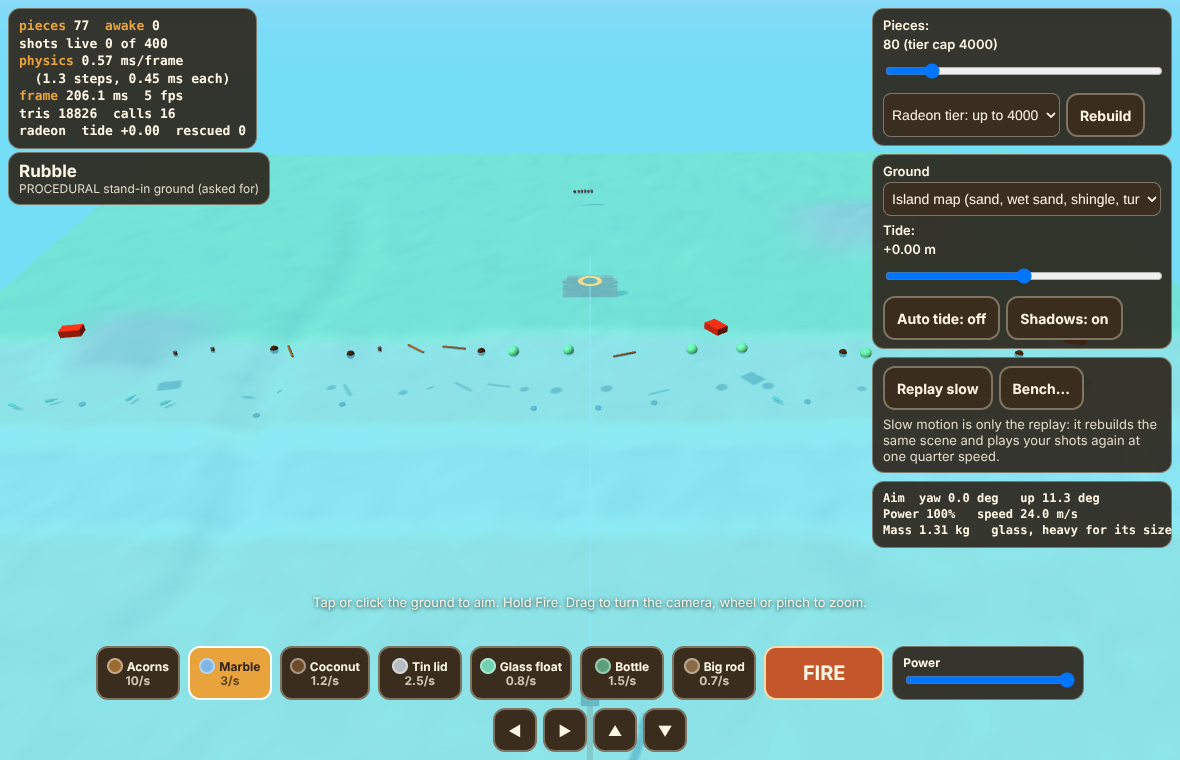
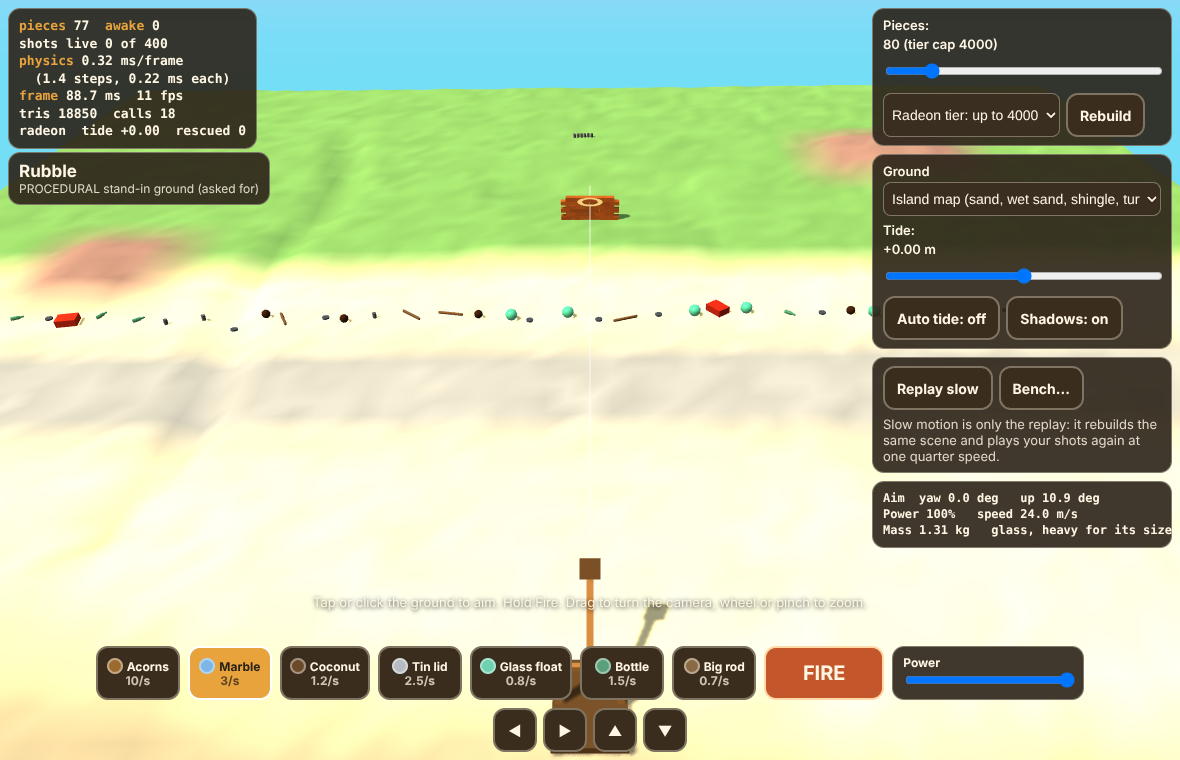
Rubble: procedural ground above sea level, picture captions
Claude-Session: https://claude.ai/code/session_0171oc5wTsPoimaja7RRfUcs

diff --git a/games/living-islands/rubble/terrain.js b/games/living-islands/rubble/terrain.js
@@ -156,7 +156,7 @@
   /* a procedural beach with the same layout and a similar slope, for when the world file is not there */
   function proceduralSite(opts) {
     opts = opts || {};
-    var isl = { h: function (x, z) { return 1.15 - 0.075 * (z + 29 - 20) + 0.12 * Math.sin((x + 23) * 0.09) + 0.2 * Math.sin((z + 29) * 0.07 + (x + 23) * 0.03) * 0.5; } };
+    var isl = { h: function (x, z) { return 1.0 - 0.083 * (z - 29) + 0.12 * Math.sin((x + 23) * 0.09) + 0.1 * Math.sin(z * 0.2 + (x + 23) * 0.03); } };
     isl.baseGround = function (x, z) { var zz = z - 29; return zz > 10 ? SAND : zz > -4 ? SAND : TURF; };
     var s = leeSite(isl, opts); s.notes = ['procedural stand-in ground (the world file was not loaded)']; s.procedural = true; return s;
   }

diff --git a/games/living-islands/research/BRICKLAB_TO_ISLAND.md b/games/living-islands/research/BRICKLAB_TO_ISLAND.md
@@ -217,3 +217,12 @@ Read from `origin/gh-pages`, folder `living-islands-lab/castle-sound/` (`game.js
 | Multi-player | relay (local) | none |
 
 **Use of it:** take Castle Sound's turn rules, rigs, bell win rule, relay and Grand ramparts as the game layer; take Rubble's ground, materials, tide and replay as the physics layer. Merge job (section 7, job 10) should be done once, for both. [medium]
+
+## 11. Pictures (`rubble/shots/`, software GL, 1180 x 760, honest captions)
+- `rubble-1-start`: the start, 250 pieces. Flaws: the wash-up sits on a visible 0.8 m grid (jittered but still dotted); the beach is very pale; the frame is 160 ms because it is software GL.
+- `rubble-2-volley`, `rubble-3-rods`: shots in flight and a big-rod hit on the brick block. Flaws: stills show little motion; the launcher is cut off by the buttons on a short screen.
+- `rubble-4-rock-hightide`: ground forced to all rock, tide +0.80. Flaw: the whole island turns one salmon colour, which is the point, but the sea is a flat plane with no foam.
+- `rubble-5-ipad-tier`: iPad tier, 250 pieces, 40 live shots. `rubble-6-radeon-4000`: 3948 pieces, 322,850 triangles, 18 draw calls. Flaws: at high tide most of the lower wash-up floats, so it reads as a mess; the test left the tide at +0.80.
+- `rubble-7-replay`: the replay banner. Flaw: the test replay was only a few steps long because software GL runs few steps; the long replay is proved in Node (560 steps).
+- `rubble-8-bench-warning`, `rubble-9-bench-report`: the warning and a finished software-GL report. Flaw: panels overlap the scene behind them.
+- `rubble-10-procedural`: the procedural fallback. Flaw: it is flat and plain; the first version sat below sea level and was drawn all under water, fixed.
